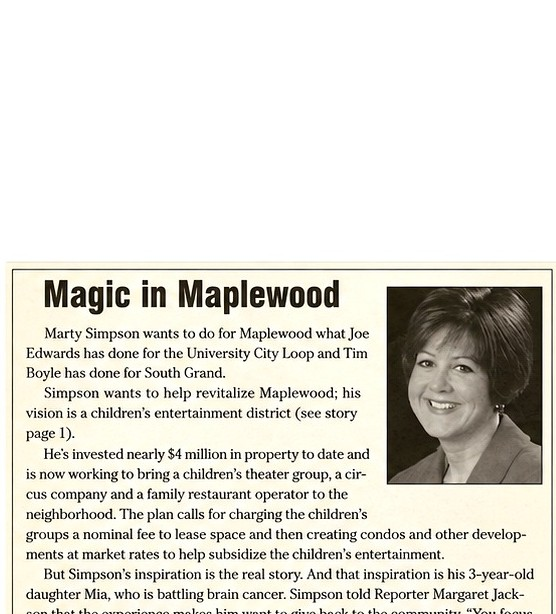
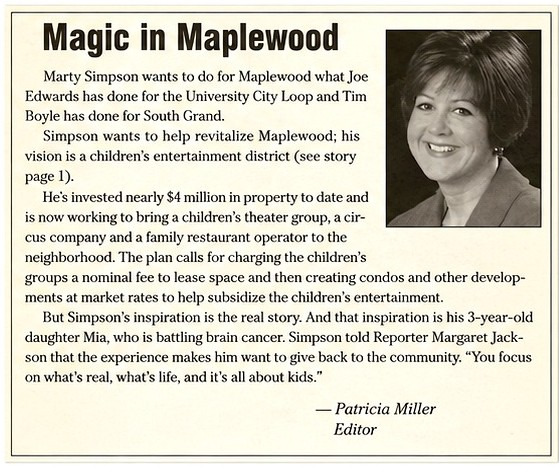
Fix Canva homepage mismatches found on the live page
Center highlight cards, put press labels above the clippings, fill
the editorial thumbnail, use navy section titles, and center the
career-history heading.

diff --git a/public/cv2/index.html b/public/cv2/index.html
@@ -8,7 +8,7 @@
 <link rel="preconnect" href="https://fonts.googleapis.com"/>
 <link rel="preconnect" href="https://fonts.gstatic.com" crossorigin/>
 <link href="https://fonts.googleapis.com/css2?family=Plus+Jakarta+Sans:wght@400;500;600;700;800&display=swap" rel="stylesheet"/>
-<link rel="stylesheet" href="/cv2/cv.css?v=canva1"/>
+<link rel="stylesheet" href="/cv2/cv.css?v=canva2"/>
 </head>
 <body class="home">
 <header class="site-header">
@@ -53,7 +53,7 @@
         <p>The first national patient-service-center testing network, beginning around 1993.</p>
       </a>
       <a class="hl-card" href="/cv2/businesses.html">
-        <span class="hl-icon" aria-hidden="true"><svg viewBox="0 0 24 24" fill="none"><path d="M4 20V8.5L12 4l8 4.5V20" stroke="currentColor" stroke-width="1.7" stroke-linecap="round"/><path d="M9 20v-6h6v6" stroke="currentColor" stroke-width="1.7"/></svg></span>
+        <span class="hl-icon" aria-hidden="true"><svg viewBox="0 0 24 24" fill="none"><path d="M8.5 19V9.2L12 4.5l3.5 4.7V19" stroke="currentColor" stroke-width="1.7" stroke-linejoin="round"/><path d="M10.2 19v-4h3.6v4" stroke="currentColor" stroke-width="1.7"/><path d="M12 11.2v3.2M10.4 12.8h3.2" stroke="currentColor" stroke-width="1.7" stroke-linecap="round"/></svg></span>
         <h3>Medical Testing Center</h3>
         <p>Nationwide medical testing — call centers, regional labs, and DNA paternity at national scale.</p>
       </a>
@@ -63,7 +63,7 @@
         <p>A restaurant and family entertainment district on Sutton Boulevard in historic Maplewood.</p>
       </a>
       <a class="hl-card" href="/cv2/current.html">
-        <span class="hl-icon" aria-hidden="true"><svg viewBox="0 0 24 24" fill="none"><rect x="5" y="5" width="14" height="14" rx="2.5" stroke="currentColor" stroke-width="1.7"/><path d="M9 9h6M9 12h6M9 15h3.5" stroke="currentColor" stroke-width="1.7" stroke-linecap="round"/></svg></span>
+        <span class="hl-icon" aria-hidden="true"><svg viewBox="0 0 24 24" fill="none"><rect x="5" y="5" width="14" height="14" rx="2.2" stroke="currentColor" stroke-width="1.7"/><path d="M9 9.2h6M9 12h6M9 14.8h3.2" stroke="currentColor" stroke-width="1.7" stroke-linecap="round"/><text x="12" y="18.2" text-anchor="middle" font-size="5.2" font-weight="700" fill="currentColor" stroke="none">AI</text></svg></span>
         <h3>Axon AI</h3>
         <p>Conversational AI products for businesses and professional profiles, including this resume.</p>
       </a>
@@ -76,30 +76,30 @@
     <h2 class="home-h">Legacy &amp; Public Record</h2>
     <div class="legacy-grid">
       <article class="legacy-card">
+        <p class="legacy-kicker">KETC Channel 9</p>
+        <h3>Living in St. Louis</h3>
         <a class="legacy-media" href="https://www.youtube.com/watch?v=o_LuKiM_pTw" rel="noopener">
           <img src="https://i.ytimg.com/vi/o_LuKiM_pTw/hqdefault.jpg" alt="KETC Channel 9 — Living in St. Louis, Maplewood profile" width="480" height="360"/>
           <span class="legacy-play" aria-hidden="true"></span>
         </a>
-        <p class="legacy-kicker">KETC Channel 9</p>
-        <h3>Living in St. Louis</h3>
         <p>A television profile of Martin Simpson, his Maplewood development, his family, and the work involving children and community.</p>
         <a class="legacy-link" href="https://www.youtube.com/watch?v=o_LuKiM_pTw" rel="noopener">Watch Channel 9 feature →</a>
       </article>
       <article class="legacy-card">
-        <a class="legacy-media" href="/cv2/images/media/slbj-2003-pied-piper.jpg">
-          <img src="/cv2/images/media/slbj-2003-pied-piper-card.jpg" alt="St. Louis Business Journal clipping, Pied Piper of Maplewood, October 2003" width="422" height="660"/>
-        </a>
         <p class="legacy-kicker">St. Louis Business Journal</p>
         <h3>Pied Piper of Maplewood</h3>
+        <a class="legacy-media" href="/cv2/images/media/slbj-2003-pied-piper.jpg">
+          <img src="/cv2/images/media/slbj-2003-pied-piper-card.jpg" alt="St. Louis Business Journal clipping, Pied Piper of Maplewood, October 2003" width="416" height="540"/>
+        </a>
         <p>Margaret Jackson, October 24–30, 2003. The front page documents nearly $4 million spent acquiring Maplewood property for a children’s neighborhood.</p>
         <a class="legacy-link" href="/cv2/images/media/slbj-2003-pied-piper.jpg">View original clipping →</a>
       </article>
       <article class="legacy-card">
-        <a class="legacy-media" href="/cv2/images/media/slbj-2003-magic-in-maplewood.jpg">
-          <img src="/cv2/images/media/slbj-2003-magic-card.jpg" alt="St. Louis Business Journal editorial clipping, Magic in Maplewood, Patricia Miller" width="556" height="614"/>
-        </a>
         <p class="legacy-kicker">From the editor</p>
         <h3>Magic in Maplewood</h3>
+        <a class="legacy-media" href="/cv2/images/media/slbj-2003-magic-in-maplewood.jpg">
+          <img src="/cv2/images/media/slbj-2003-magic-card.jpg" alt="St. Louis Business Journal editorial clipping, Magic in Maplewood, Patricia Miller" width="559" height="467"/>
+        </a>
         <p>Patricia Miller, Editor. “You focus on what’s real, what’s life, and it’s all about kids.”</p>
         <a class="legacy-link" href="/cv2/images/media/slbj-2003-magic-in-maplewood.jpg">Read editorial clipping →</a>
       </article>
@@ -140,7 +140,7 @@
   <div class="wrap-wide">
     <div class="ai-banner">
       <div class="ai-banner-copy">
-        <span class="ai-banner-icon" aria-hidden="true"><svg viewBox="0 0 24 24" fill="none"><path d="M5 16.5V8.2A2.2 2.2 0 0 1 7.2 6H14l5 4.2v6.3A2.2 2.2 0 0 1 16.8 19H7.2A2.2 2.2 0 0 1 5 16.5Z" stroke="currentColor" stroke-width="1.7" stroke-linejoin="round"/><path d="M9 11h6M9 14h4" stroke="currentColor" stroke-width="1.7" stroke-linecap="round"/></svg></span>
+        <span class="ai-banner-icon" aria-hidden="true"><svg viewBox="0 0 24 24" fill="none"><path d="M5 15.8V8.4A2 2 0 0 1 7 6.4h6.2L16.8 9.8v6A2 2 0 0 1 14.8 17.8H7A2 2 0 0 1 5 15.8Z" stroke="currentColor" stroke-width="1.7" stroke-linejoin="round"/><path d="M16.8 10.5h1.4A1.8 1.8 0 0 1 20 12.3v5.2A1.8 1.8 0 0 1 18.2 19.3h-7.2" stroke="currentColor" stroke-width="1.7" stroke-linecap="round"/></svg></span>
         <div>
           <h2>Talk with Mr. Simpson’s AI Team Member</h2>
           <p>Ask about his experience, businesses, projects, and career journey.</p>
@@ -176,9 +176,10 @@
 </section>
 
 <section class="home-section" id="background">
-  <div class="wrap-wide hist-grid">
+  <div class="wrap-wide">
+    <h2 class="home-h">Background &amp; Career History</h2>
+    <div class="hist-grid">
     <div>
-      <h2 class="home-h home-h--left">Background &amp; Career History</h2>
       <ol class="hist-list">
         <li><a href="/cv2/education.html"><strong>Public health</strong> — Doorways, Missouri Department of Health, CDC training during the HIV/AIDS crisis.</a></li>
         <li><a href="/cv2/businesses.html"><strong>Specialized Testing Services</strong> — the first national patient-service-center testing network (~1993).</a></li>
@@ -194,6 +195,7 @@
       <h3>Current Focus</h3>
       <p>Martin is currently developing a family of conversational AI products, including Conversational Email, Conversational Business Cards, Axon Operator, Legacy Website AI, and this Interactive Resume.</p>
     </aside>
+    </div>
   </div>
 </section>
 

diff --git a/public/cv2/cv.css b/public/cv2/cv.css
@@ -956,7 +956,7 @@ body.home .hero-summary { margin-bottom: 0; }
   font-size: clamp(24px, 2.8vw, 32px);
   font-weight: 750;
   letter-spacing: -.03em;
-  color: var(--accent-text);
+  color: var(--navy);
   margin: 0 0 28px;
 }
 .home-h--left { text-align: left; margin-bottom: 22px; }
@@ -986,7 +986,8 @@ body.home .hero-summary { margin-bottom: 0; }
 .hl-card {
   display: flex;
   flex-direction: column;
-  align-items: flex-start;
+  align-items: center;
+  text-align: center;
   gap: 10px;
   padding: 22px 20px 24px;
   text-decoration: none;
@@ -1026,22 +1027,30 @@ body.home .hero-summary { margin-bottom: 0; }
   grid-template-columns: repeat(3, minmax(0, 1fr));
   gap: 18px;
 }
-.legacy-card { padding: 0 0 18px; overflow: hidden; }
+.legacy-card { padding: 16px 0 18px; overflow: hidden; display: flex; flex-direction: column; }
 .legacy-media {
   display: block;
   position: relative;
   aspect-ratio: 16 / 10;
   overflow: hidden;
-  background: #eef2f6;
+  background: #e8edf3;
+  margin: 0 0 12px;
 }
 .legacy-media img {
   width: 100%;
   height: 100%;
   object-fit: cover;
-  object-position: center 18%;
+  object-position: center top;
 }
-.legacy-card:nth-child(2) .legacy-media img { object-position: 20% 8%; object-fit: cover; }
-.legacy-card:nth-child(3) .legacy-media img { object-position: center 8%; }
+.legacy-card:nth-child(2) .legacy-media img { object-position: center top; }
+.legacy-card:nth-child(3) .legacy-media {
+  background: #f4efe6;
+}
+.legacy-card:nth-child(3) .legacy-media img {
+  object-fit: contain;
+  object-position: center;
+  background: #f4efe6;
+}
 .legacy-play {
   position: absolute;
   inset: 0;
@@ -1062,14 +1071,14 @@ body.home .hero-summary { margin-bottom: 0; }
   border-color: transparent transparent transparent #fff;
 }
 .legacy-kicker {
-  margin: 14px 18px 2px;
+  margin: 0 18px 2px;
   font-size: 11px;
   font-weight: 800;
   letter-spacing: .12em;
   text-transform: uppercase;
-  color: var(--accent-text);
+  color: var(--muted);
 }
-.legacy-card h3 { margin: 0 18px 8px; }
+.legacy-card h3 { margin: 0 18px 10px; color: var(--navy); }
 .legacy-card p { margin: 0 18px 12px; }
 .legacy-link {
   margin: 0 18px;
@@ -1088,11 +1097,22 @@ body.home .hero-summary { margin-bottom: 0; }
 .comm-item {
   display: grid;
   grid-template-columns: auto 1fr;
-  gap: 14px;
+  gap: 16px;
   align-items: start;
   text-decoration: none;
   color: inherit;
   padding: 8px 4px;
+}
+.comm-icon {
+  width: 48px;
+  height: 48px;
+  border-radius: 50%;
+  background: var(--navy);
+  color: #fff;
+}
+.comm-item > div {
+  padding-left: 14px;
+  border-left: 1px solid var(--line);
 }
 
 .ai-banner {
@@ -1110,6 +1130,13 @@ body.home .hero-summary { margin-bottom: 0; }
   gap: 16px;
   min-width: 0;
 }
+.ai-banner-icon {
+  width: 52px;
+  height: 52px;
+  background: var(--navy);
+  color: #fff;
+}
+.ai-banner-icon svg { width: 26px; height: 26px; }
 .ai-banner h2 {
   margin: 0 0 4px;
   font-size: clamp(18px, 2vw, 24px);
